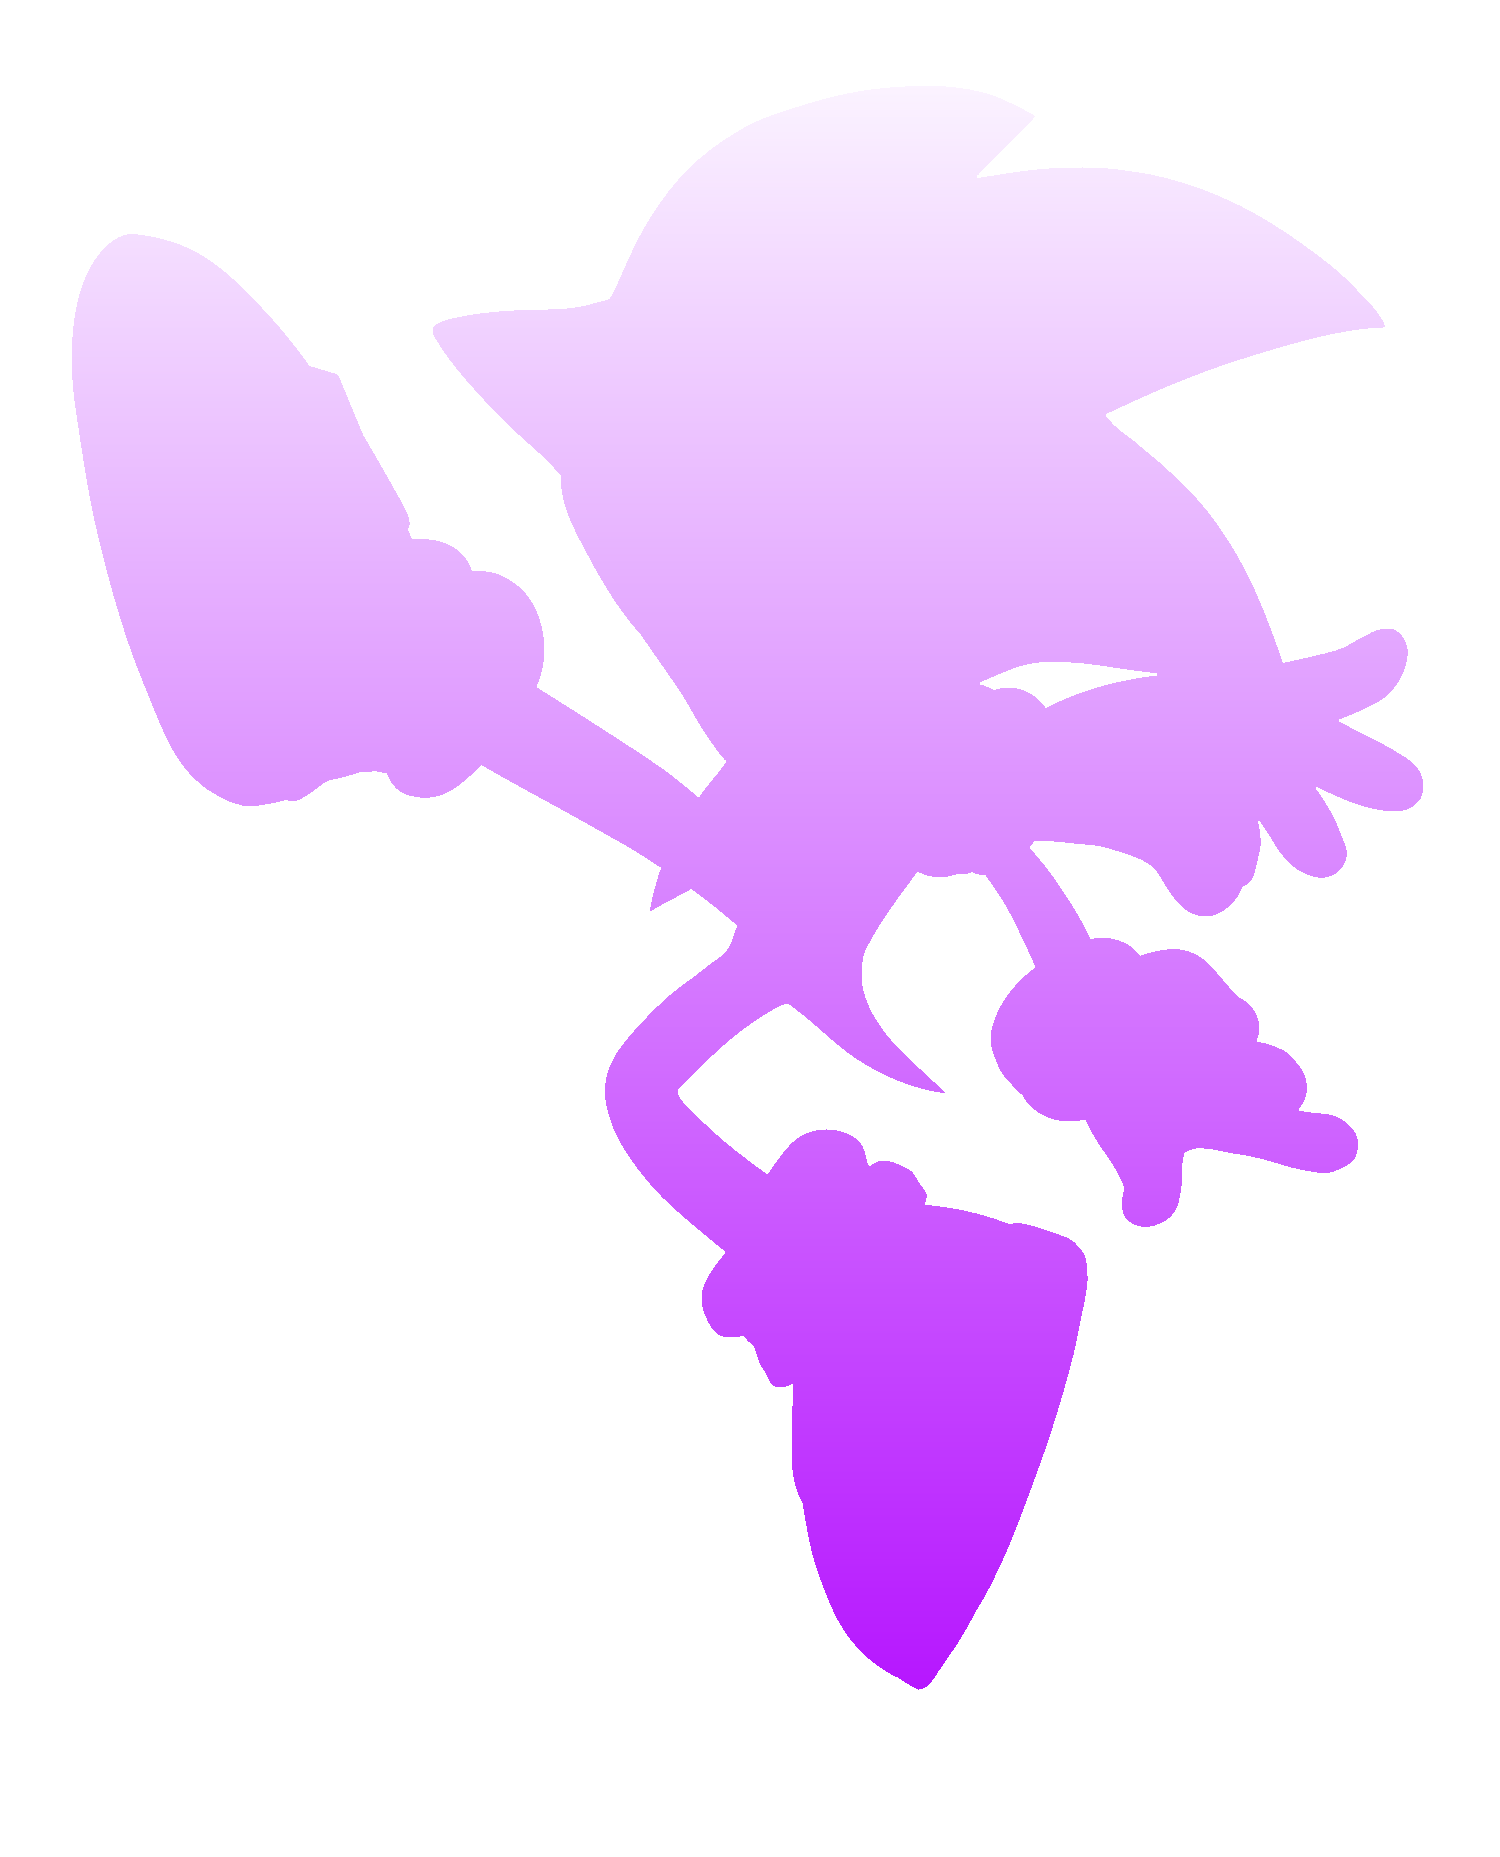
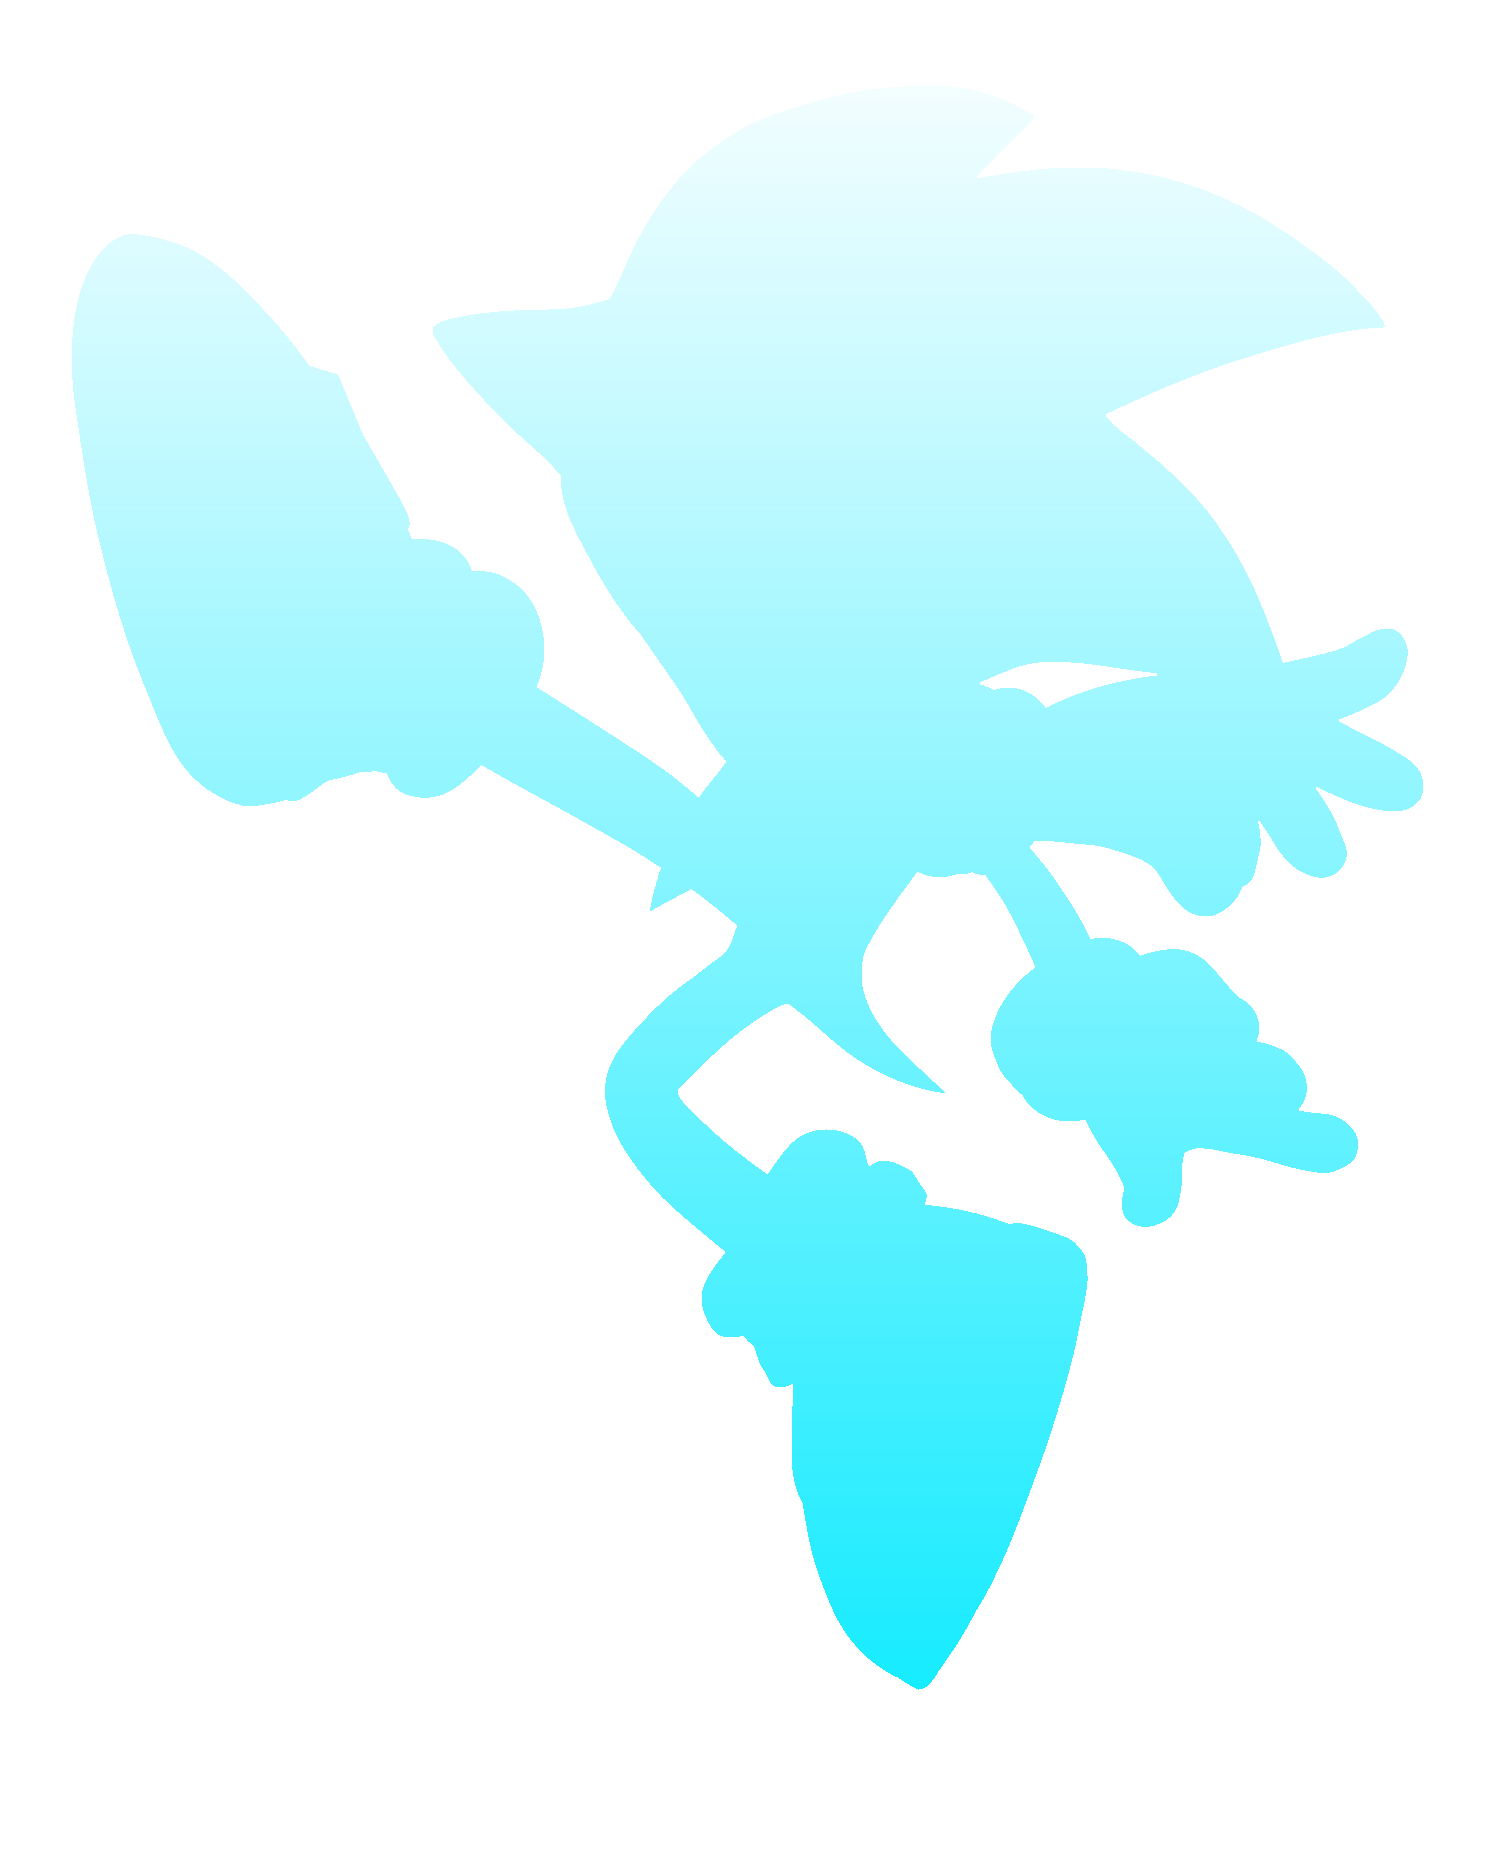
only genreating one gradient per row of pixles takes only 5 secodns compaired to 20

diff --git a/index.js b/index.js
@@ -127,9 +127,9 @@ function ProcessImage(outlineWidth, imagePath, outputPath) {
             let alphaImage = new jimp_1.default(imageWidth, imageHeight, (err, newimage) => { });
             var hrstart = process.hrtime();
             //TODO only generate the gradient for each unique y position
-            let gradientArray = [];
+            let gradient = [];
             for (let index = 0; index < imageHeight; index++) {
-                gradientArray[index] = makeGradient(firstColour, secondColour, index / imageHeight);
+                gradient[index] = makeGradient(firstColour, secondColour, index / imageHeight);
             }
             image.scan(0, 0, imageWidth, imageHeight, function (x, y, idx) {
                 /*         var red = this.bitmap.data[idx + 0];
@@ -137,9 +137,9 @@ function ProcessImage(outlineWidth, imagePath, outputPath) {
               var blue = this.bitmap.data[idx + 2]; */
                 var alpha = this.bitmap.data[idx + 3];
                 if (alpha >= alphaCutoff) {
-                    this.bitmap.data[idx + 0] = gradientArray[y].red();
-                    this.bitmap.data[idx + 1] = gradientArray[y].green();
-                    this.bitmap.data[idx + 2] = gradientArray[y].blue();
+                    this.bitmap.data[idx + 0] = gradient[y].red();
+                    this.bitmap.data[idx + 1] = gradient[y].green();
+                    this.bitmap.data[idx + 2] = gradient[y].blue();
                 }
                 else {
                     this.bitmap.data[idx + 0] = 0;
@@ -153,7 +153,7 @@ function ProcessImage(outlineWidth, imagePath, outputPath) {
                 alphaImage.bitmap.data[idx + 3] = 255;
             });
             let hrend = process.hrtime(hrstart);
-            //console.info("Execution time: %ds %dms", hrend[0], hrend[1] / 1000000);
+            console.info("Execution time: %ds %dms", hrend[0], hrend[1] / 1000000);
             console.log("Got alpha channel and gradient. making outline");
             //    image.write("justinnner.png");
             //   alphaImage.write("1ustoutline.png");

diff --git a/index.ts b/index.ts
@@ -150,8 +150,14 @@ function ProcessImage(
           (err, newimage) => {}
         );
         var hrstart = process.hrtime();
-        //TODO only generate the gradient for each unique y position
-
+        let gradient: Color[] = [];
+        for (let index = 0; index < imageHeight; index++) {
+          gradient[index] = makeGradient(
+            firstColour,
+            secondColour,
+            index / imageHeight
+          );
+        }
         image.scan(0, 0, imageWidth, imageHeight, function(x, y, idx) {
           /*         var red = this.bitmap.data[idx + 0];
         var green = this.bitmap.data[idx + 1];
@@ -159,15 +165,9 @@ function ProcessImage(
           var alpha = this.bitmap.data[idx + 3];
 
           if (alpha >= alphaCutoff) {
-            let newColor: Color = makeGradient(
-              firstColour,
-              secondColour,
-              y / imageHeight
-            );
-
-            this.bitmap.data[idx + 0] = newColor.red();
-            this.bitmap.data[idx + 1] = newColor.green();
-            this.bitmap.data[idx + 2] = newColor.blue();
+            this.bitmap.data[idx + 0] = gradient[y].red();
+            this.bitmap.data[idx + 1] = gradient[y].green();
+            this.bitmap.data[idx + 2] = gradient[y].blue();
           } else {
             this.bitmap.data[idx + 0] = 0;
             this.bitmap.data[idx + 1] = 0;
@@ -182,7 +182,7 @@ function ProcessImage(
         });
 
         let hrend = process.hrtime(hrstart);
-        //console.info("Execution time: %ds %dms", hrend[0], hrend[1] / 1000000);
+        console.info("Execution time: %ds %dms", hrend[0], hrend[1] / 1000000);
         console.log("Got alpha channel and gradient. making outline");
         //    image.write("justinnner.png");
         //   alphaImage.write("1ustoutline.png");
